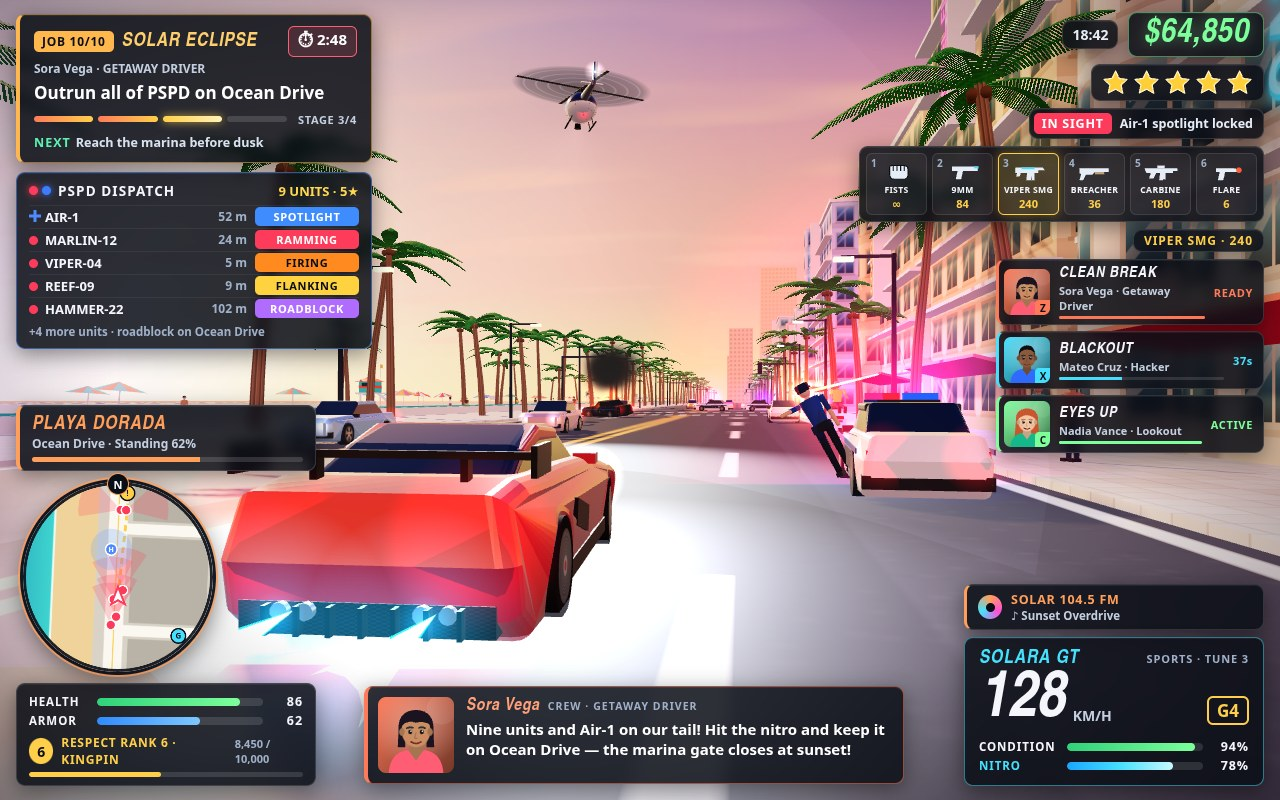
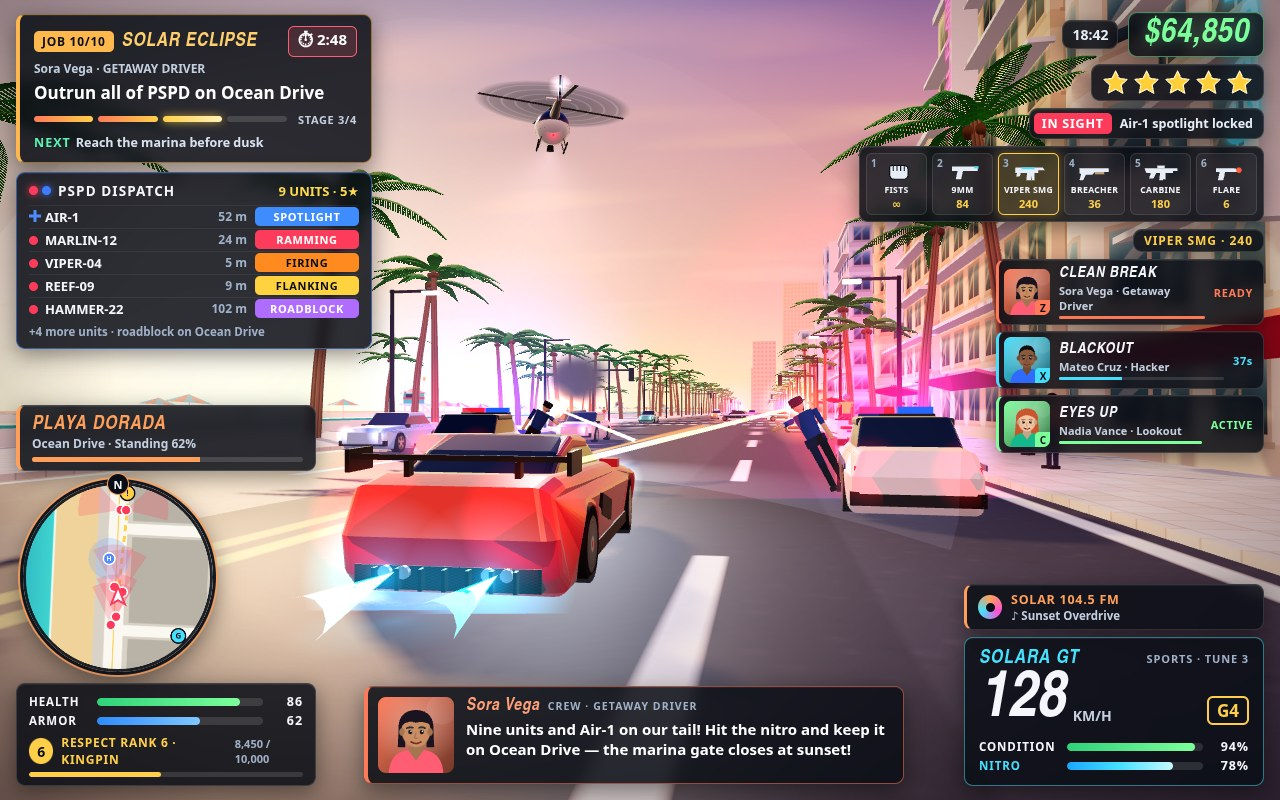
Fix limb/weapon orientation and tracer direction; north-up world map; tune chase and shootout staging

diff --git a/game/src/shots.js b/game/src/shots.js
@@ -80,8 +80,8 @@ function stageChase(ctx, seed) {
   syncVehicleModel(v);
   for (const f of hero.userData.flames) { f.visible = true; f.scale.setScalar(1.05); }
   scene.add(hero);
-  roadReflection(scene, 3.35, -37.2, '#ff2340', 2.6, 2.4, 0.42);
-  roadReflection(scene, 3.4, -36.6, '#3fdcff', 1.8, 2.6, 0.5);
+  roadReflection(scene, 3.35, -37.6, '#ff2340', 2.2, 1.6, 0.16);
+  roadReflection(scene, 3.4, -36.9, '#3fdcff', 1.4, 1.8, 0.2);
 
   const player = createPlayer(scene, v.x, v.z, career);
   selectWeapon(player, 2);
@@ -91,8 +91,8 @@ function stageChase(ctx, seed) {
 
   // PSPD: two flanking cruisers with officers leaning out, more behind, a roadblock ahead.
   setWanted(dispatch, 5);
-  const left = spawnCruiser(dispatch, -1.6, -36.4, 0.07, 'FIRING', { officer: 1 });
-  const right = spawnCruiser(dispatch, 8.6, -47.5, -0.06, 'FLANKING', { officer: -1 });
+  const left = spawnCruiser(dispatch, -1.4, -51, 0.07, 'FIRING', { officer: 1 });
+  const right = spawnCruiser(dispatch, 8.4, -45.5, -0.06, 'FLANKING', { officer: -1 });
   for (const u of [left, right]) { u.vehicle.speed = 34; u.vehicle.wheelSpin = 2; syncVehicleModel(u.vehicle); }
   const rammer = spawnCruiser(dispatch, 2.2, -16, 0.02, 'RAMMING');
   const pursuit = spawnCruiser(dispatch, -3.6, -6, 0.0, 'PURSUIT');
@@ -105,14 +105,17 @@ function stageChase(ctx, seed) {
   pursuit.callsign = 'GULL-17';
   dispatch.units.find((u) => u.tactic === 'ROADBLOCK').callsign = 'HAMMER-22';
   const heli = spawnHelicopter(dispatch, -6, -92);
-  heli.model.position.set(-7, 25, -95);
+  heli.model.position.set(-9, 22, -84);
   heli.model.rotation.set(0.12, 0.35, -0.08);
   updateHelicopter(heli.model, t);
+  heli.model.userData.cone.material.uniforms.strength.value = 1.15;
+  heli.model.userData.spot.intensity = 160;
   aimSearchlight(heli.model, new THREE.Vector3(v.x - 0.2, 0, v.z + 0.6), scene);
+  heli.model.userData.pool.material.opacity = 0.22;
   for (const u of dispatch.units) {
     updateLightbar(u.vehicle.model, t);
     u.distance = Math.hypot(u.vehicle.x - v.x, u.vehicle.z - v.z);
-    roadReflection(scene, u.vehicle.x, u.vehicle.z, (u.vehicle.model.userData.phase || 0) > 0.5 ? '#2a6bff' : '#ff2a4a', 5, 6, 0.22);
+    roadReflection(scene, u.vehicle.x, u.vehicle.z, (u.vehicle.model.userData.phase || 0) > 0.5 ? '#2a6bff' : '#ff2a4a', 4.4, 5.4, 0.14);
   }
   dispatch.inSight = true;
   dispatch.heli.distance = 52;
@@ -129,8 +132,8 @@ function stageChase(ctx, seed) {
   spawnTracer(scene, [], muzzle2, new THREE.Vector3(v.x + 0.4, 1.0, v.z + 1.5), 0xffd27a, 99);
 
   // A burning wreck mid-distance, off to the oncoming side; smoke drifting inland.
-  buildBurningWreck(scene, particles, -6.4, -104, 0.9, true);
-  particles.explode(new THREE.Vector3(-6.4, 1, -104), 0.5);
+  buildBurningWreck(scene, particles, -13.5, -84, 0.9, true);
+  particles.explode(new THREE.Vector3(-13.5, 1, -84), 0.5);
   settleParticles(particles, 2.6);
 
   // Civilian traffic and a scooter on the right.
@@ -160,9 +163,9 @@ function stageChase(ctx, seed) {
 
   // Camera: low, tight 3/4 rear-quarter.
   const cam = ctx.camera;
-  cam.fov = 54;
-  cam.position.set(v.x + 2.35, 1.55, v.z + 6.9);
-  cam.lookAt(v.x - 0.6, 1.55, v.z - 16);
+  cam.fov = 56;
+  cam.position.set(v.x + 2.7, 1.62, v.z + 8.3);
+  cam.lookAt(v.x - 2.0, 2.0, v.z - 20);
   cam.updateProjectionMatrix();
 
   startMission(game.campaign, 9);
@@ -203,7 +206,7 @@ function stageShootout(ctx, seed) {
   scene.environment = createEnvironmentMap(ctx.renderer, 'night');
   const deckY = 0.6;
   const px = -42.4;
-  const pz = 262;
+  const pz = 252;
 
   const player = createPlayer(scene, px, pz, career);
   selectWeapon(player, 2);
@@ -218,7 +221,7 @@ function stageShootout(ctx, seed) {
 
   // The Palma Cab parked at the stall row, ready to steal.
   const cab = buildSedan({ color: VEHICLES.cab.color, livery: 'cab' });
-  const cabState = createVehicleState(cab, 'cab', -36.2, 257.5, 0.5);
+  const cabState = createVehicleState(cab, 'cab', -35.6, 245.5, 0.55);
   syncVehicleModel(cabState);
   cab.position.y = deckY;
   scene.add(cab);
@@ -229,7 +232,7 @@ function stageShootout(ctx, seed) {
     { x: -38.2, z: 232, shirt: 0xd42a3a, pants: 0x1b1b22, crouch: false, fire: true },
     { x: -44.6, z: 224, shirt: 0x1d3b7a, pants: 0x0f1626, cap: 0x0f1626, crouch: false, fire: true },
     { x: -50.2, z: 220, shirt: 0x1d3b7a, pants: 0x0f1626, cap: 0x0f1626, crouch: true, fire: false },
-    { x: -35.6, z: 244, shirt: 0x2a2a33, pants: 0x3a2a1a, crouch: true, fire: false, down: true },
+    { x: -40.5, z: 241, shirt: 0x2a2a33, pants: 0x3a2a1a, crouch: true, fire: false, down: true },
   ];
   const crates = new THREE.MeshStandardMaterial({ color: 0x8a6a48, roughness: 0.8 });
   const targets = [];
@@ -244,7 +247,7 @@ function stageShootout(ctx, seed) {
       m.userData.aim(true);
       if (e.crouch) m.userData.crouch();
       const gun = buildWeaponModel(e.cap ? 'nine' : 'viper');
-      gun.rotation.x = Math.PI / 2;
+      gun.rotation.x = -Math.PI / 2;
       gun.position.y = -0.62;
       m.userData.rightArm.add(gun);
     }
@@ -299,7 +302,7 @@ function stageShootout(ctx, seed) {
   dispatch.inSight = true;
 
   // Night lights: lanterns, neon spill and the fire.
-  const lights = [[-44, 5, 250, 0xff4fd8, 30], [-40, 5, 236, 0x46e0ff, 30], [-44.5, 3, 209, 0xff7a2a, 60], [-35, 4, 262, 0xffcf4a, 18], [-52, 4, 240, 0x46e0ff, 22], [-41, 4, 268, 0xff4fd8, 14]];
+  const lights = [[-44, 5, 250, 0xff4fd8, 30], [-40, 5, 236, 0x46e0ff, 30], [-44.5, 3, 209, 0xff7a2a, 60], [-35, 4, 248, 0xffcf4a, 18], [-52, 4, 240, 0x46e0ff, 22], [-41, 4, 256, 0xff4fd8, 14]];
   lights.forEach(([x, y, z, c, i], k) => { const l = world.pointPool[k]; l.position.set(x, y, z); l.color.set(c); l.intensity = i; l.distance = 34; });
   world.setFocus(px, pz - 20);
   world.update(3, 0);
@@ -334,7 +337,7 @@ function stageShootout(ctx, seed) {
   ctx.hud.update(hud);
   ctx.hud.drawMinimap({ x: px, z: pz, heading: player.heading, t: 0.1, cones: true, objective: { x: -20, z: 160 },
     police: dispatch.units.map((u) => ({ x: u.vehicle.x, z: u.vehicle.z, heading: u.vehicle.heading })).concat(enemies.filter((e) => !e.down).map((e) => ({ x: e.x, z: e.z, heading: 0 }))),
-    icons: [{ x: -20, z: 160, label: '!', color: '#ffcf4a' }, { x: -36, z: 257, label: 'C', color: '#ffc23a' }] });
+    icons: [{ x: -20, z: 160, label: '!', color: '#ffcf4a' }, { x: -35.6, z: 245.5, label: 'C', color: '#ffc23a' }] });
   return { scene, camera: cam };
 }
 

diff --git a/game/src/hud.js b/game/src/hud.js
@@ -111,7 +111,7 @@ const CSS = `
 #prompt{position:absolute;left:50%;top:63%;transform:translateX(-50%);display:flex;align-items:center;gap:10px;padding:8px 16px 8px 8px;border-color:rgba(255,207,74,.7)}
 #prompt kbd{background:#ffcf4a;color:#0a0e16;font:900 16px ${FONT};border-radius:6px;padding:3px 10px}
 #prompt span{font-weight:900;font-size:15px;letter-spacing:.08em}
-#callout{position:absolute;right:16px;top:50%;padding:7px 12px;font-size:13px;font-weight:800;border-left:3px solid #7dff9b}
+#callout{position:absolute;right:16px;bottom:206px;padding:7px 12px;font-size:13px;font-weight:800;border-left:3px solid #7dff9b}
 #toast{position:absolute;left:50%;top:20%;transform:translateX(-50%);padding:10px 22px;font:italic 900 26px ${NARROW};letter-spacing:.08em;color:#ffcf4a;opacity:0;transition:opacity .3s}
 #vignette{position:fixed;inset:0;pointer-events:none;z-index:4;background:radial-gradient(ellipse at 50% 46%,rgba(0,0,0,0) 58%,rgba(10,6,20,.42) 100%)}
 .hide{display:none!important}
@@ -217,14 +217,6 @@ export function paintCityMap(ctx, x0, z0, scale, w, h, { districts = false, nigh
   const Z = (z) => (z - z0) * scale;
   ctx.fillStyle = night ? '#232838' : '#d9d3c7';
   ctx.fillRect(0, 0, w, h);
-  if (districts) {
-    for (const d of DISTRICTS) {
-      ctx.fillStyle = d.color;
-      ctx.globalAlpha = 0.28;
-      ctx.fillRect(X(Math.max(d.x0, WORLD.beachInnerX)), Z(d.z0), (d.x1 - Math.max(d.x0, WORLD.beachInnerX)) * scale, (d.z1 - d.z0) * scale);
-    }
-    ctx.globalAlpha = 1;
-  }
   // City blocks between roads.
   ctx.fillStyle = night ? '#3a4058' : '#b9b2a6';
   const xs = [WORLD.boulevardHalfWidth + 6, ...WORLD.avenueXs, WORLD.cityMaxX + 30];
@@ -237,6 +229,14 @@ export function paintCityMap(ctx, x0, z0, scale, w, h, { districts = false, nigh
       const bz1 = zs[k + 1] - WORLD.streetWidth / 2 - 3;
       ctx.fillRect(X(bx0), Z(bz0), (bx1 - bx0) * scale, (bz1 - bz0) * scale);
     }
+  }
+  if (districts) {
+    for (const d of DISTRICTS) {
+      ctx.fillStyle = d.color;
+      ctx.globalAlpha = 0.34;
+      ctx.fillRect(X(Math.max(d.x0, WORLD.beachInnerX)), Z(d.z0), (d.x1 - Math.max(d.x0, WORLD.beachInnerX)) * scale, (d.z1 - d.z0) * scale);
+    }
+    ctx.globalAlpha = 1;
   }
   // Beach and ocean.
   ctx.fillStyle = '#f0d39a';
@@ -600,6 +600,9 @@ export function showWorldMap(container, data) {
   drawWorldMapCanvas(canvas, player, data);
 }
 
+/** Where each district's name sits on the world map, so neighbouring labels never collide. */
+const LABEL_Z = { playa: -70, mercado: 300, porto: -330, palmera: -230, solar: 60, coral: 190 };
+
 function drawWorldMapCanvas(canvas, player, data) {
   const rect = canvas.getBoundingClientRect();
   const w = Math.max(200, Math.floor(rect.width));
@@ -608,30 +611,22 @@ function drawWorldMapCanvas(canvas, player, data) {
   canvas.height = hgt * 2;
   const ctx = canvas.getContext('2d');
   ctx.scale(2, 2);
-  // Map is drawn rotated so the coast runs left-right: world z → screen x, world x → screen y (ocean at the bottom).
-  ctx.save();
-  const span = WORLD.maxZ - WORLD.minZ + 40;
-  const depth = WORLD.cityMaxX + 30 - (WORLD.oceanEdgeX - 50);
-  const scale = Math.min(w / span, hgt / depth);
-  ctx.translate((w - span * scale) / 2, (hgt - depth * scale) / 2);
-  ctx.translate(0, depth * scale);
-  ctx.rotate(-Math.PI / 2);
-  ctx.translate(0, 0);
-  const off = document.createElement('canvas');
-  const x0 = WORLD.oceanEdgeX - 50;
-  const z0 = WORLD.minZ - 20;
-  off.width = Math.ceil(depth * scale);
-  off.height = Math.ceil(span * scale);
-  paintCityMap(off.getContext('2d'), x0, z0, scale, off.width, off.height, { districts: true });
-  ctx.drawImage(off, 0, 0);
-  ctx.restore();
-  const toScreen = (x, z) => [(w - span * scale) / 2 + (z - z0) * scale, (hgt - depth * scale) / 2 + depth * scale - (x - x0) * scale];
+  // North-up: the coast runs top to bottom with the ocean on the left. The scale fills the panel
+  // width with the city (right edge flush) and crops the far north and south ends of the coast.
+  const right = WORLD.cityMaxX + 34;
+  const scale = Math.min(w / (right - (WORLD.oceanEdgeX - 30)), (hgt * 1.75) / (WORLD.maxZ - WORLD.minZ));
+  const x0 = right - w / scale;
+  const z0 = (WORLD.minZ + WORLD.maxZ) / 2 - hgt / 2 / scale;
+  paintCityMap(ctx, x0, z0, scale, w, hgt, { districts: true });
+  const toScreen = (x, z) => [(x - x0) * scale, (z - z0) * scale];
   // District labels.
   ctx.textAlign = 'center';
   ctx.textBaseline = 'middle';
   for (const d of DISTRICTS) {
-    const [sx, sy] = toScreen((Math.max(d.x0, -10) + d.x1) / 2, (d.z0 + d.z1) / 2);
-    ctx.font = `italic 900 13px ${NARROW}`;
+    const [cx, cy] = toScreen((Math.max(d.x0, -10) + Math.min(d.x1, right)) / 2, LABEL_Z[d.id] ?? (d.z0 + d.z1) / 2);
+    const sx = Math.max(50, Math.min(w - 50, cx));
+    const sy = Math.max(16, Math.min(hgt - 30, cy));
+    ctx.font = `italic 900 15px ${NARROW}`;
     ctx.lineWidth = 4;
     ctx.strokeStyle = 'rgba(10,14,22,.85)';
     ctx.strokeText(d.name, sx, sy);
@@ -652,7 +647,7 @@ function drawWorldMapCanvas(canvas, player, data) {
     const [px, py] = toScreen(player.x, player.z);
     ctx.save();
     ctx.translate(px, py);
-    ctx.rotate(-player.heading - Math.PI / 2);
+    ctx.rotate(-player.heading);
     ctx.fillStyle = '#fff';
     ctx.strokeStyle = '#ff3b5c';
     ctx.lineWidth = 2.5;

diff --git a/game/src/player.js b/game/src/player.js
@@ -104,20 +104,21 @@ export function buildHumanoid({ skin = 0xd9a47e, shirt = 0xffffff, pants = 0x2f3
       root.position.y = Math.abs(Math.cos(phase)) * 0.04;
     },
     sit() {
-      legL.rotation.x = -1.4;
-      legR.rotation.x = -1.4;
-      armL.rotation.x = -1.0;
-      armR.rotation.x = -1.0;
+      legL.rotation.x = 1.4;
+      legR.rotation.x = 1.4;
+      armL.rotation.x = 1.0;
+      armR.rotation.x = 1.0;
     },
     aim(twoHanded = true) {
       g.userData.aiming = true;
-      armR.rotation.set(-1.5, 0, 0.05);
-      if (twoHanded) armL.rotation.set(-1.35, 0, -0.5);
+      // The body faces -Z, so a positive pitch swings the arms forward; the support hand angles in.
+      armR.rotation.set(1.5, 0, -0.06);
+      if (twoHanded) armL.rotation.set(1.38, 0, 0.5);
     },
     crouch() {
       root.position.y = -0.35;
-      legL.rotation.x = -1.1;
-      legR.rotation.x = 0.3;
+      legL.rotation.x = 1.1;
+      legR.rotation.x = -0.3;
     },
   };
   return g;
@@ -152,7 +153,7 @@ export function buildWeaponModel(id) {
 
 const tracerGeo = new THREE.CylinderGeometry(0.035, 0.035, 1, 5, 1, true);
 tracerGeo.rotateX(Math.PI / 2);
-tracerGeo.translate(0, 0, -0.5);
+tracerGeo.translate(0, 0, 0.5); // Object3D.lookAt aims +Z at the impact point
 
 /** Spawn a glowing tracer round from a muzzle to an impact point; it fades over `life` seconds. */
 export function spawnTracer(scene, list, from, to, color = 0xffd27a, life = 0.09) {
@@ -268,7 +269,7 @@ export function selectWeapon(player, index) {
   if (player.weaponModel) player.weaponHolder.remove(player.weaponModel);
   player.weaponModel = w.id === 'fists' ? null : buildWeaponModel(w.id);
   if (player.weaponModel) {
-    player.weaponModel.rotation.x = Math.PI / 2;
+    player.weaponModel.rotation.x = -Math.PI / 2;
     player.weaponHolder.add(player.weaponModel);
   }
   return true;

diff --git a/game/src/main.js b/game/src/main.js
@@ -259,8 +259,9 @@ function startGame() {
     else if (game.screen === 'map' && hit('KeyM', 'Escape')) play();
     else if (game.screen === 'map') {
       for (let s = 1; s <= 3; s += 1) {
-        if (hit(`Digit${s}`)) { saveGame(s, game.career); pause(); hud.toast(`Saved to slot ${s}`); }
-        if (hit(`F${s}`)) { const loaded = loadGame(s); if (loaded) { Object.assign(game.career, loaded); pause(); } }
+        if (!hit(`Digit${s}`)) continue;
+        if (down('ShiftLeft', 'ShiftRight')) { const loaded = loadGame(s); if (loaded) { Object.assign(game.career, loaded); pause(); hud.toast(`Loaded slot ${s}`); } }
+        else { saveGame(s, game.career); pause(); hud.toast(`Saved to slot ${s}`); }
       }
     } else if (game.screen === 'garage') {
       if (hit('Escape', 'KeyG')) { closeGarage(); return; }

diff --git a/game/src/world.js b/game/src/world.js
@@ -999,7 +999,7 @@ function buildMarketBoardwalk(scene, rng, props, colliders) {
       const x = x0 + 9 + t * (x1 - x0 - 18);
       const sag = Math.sin(t * Math.PI) * 1.1;
       bulbParts.push(placed(tinted(new THREE.SphereGeometry(0.12, 6, 4), k % 2 ? 0xfff0b0 : 0xff9ad5), x, 5.6 - sag, z + 7));
-      if (k % 4 === 2) lanternParts.push(placed(tinted(new THREE.SphereGeometry(0.42, 10, 8), lanternColors[(k + si) % 4]), x, 5.0 - sag, z + 7));
+      if (k % 4 === 2) lanternParts.push(placed(tinted(new THREE.SphereGeometry(0.3, 10, 8), lanternColors[(k + si) % 4]), x, 5.0 - sag, z + 7));
     }
   }
   for (const c of crates) props.push(c);

diff --git a/game/src/vehicles.js b/game/src/vehicles.js
@@ -847,7 +847,7 @@ export class ParticleSystem {
     mat.map = this.textures[kind === 'ember' ? 'spark' : kind];
     mat.blending = kind === 'smoke' ? THREE.NormalBlending : THREE.AdditiveBlending;
     mat.toneMapped = kind === 'smoke';
-    mat.color.set(kind === 'smoke' ? 0x2a2522 : 0xffffff);
+    mat.color.set(kind === 'smoke' ? 0x4a4440 : 0xffffff);
     mat.needsUpdate = true;
     s.visible = true;
     s.position.copy(pos);
